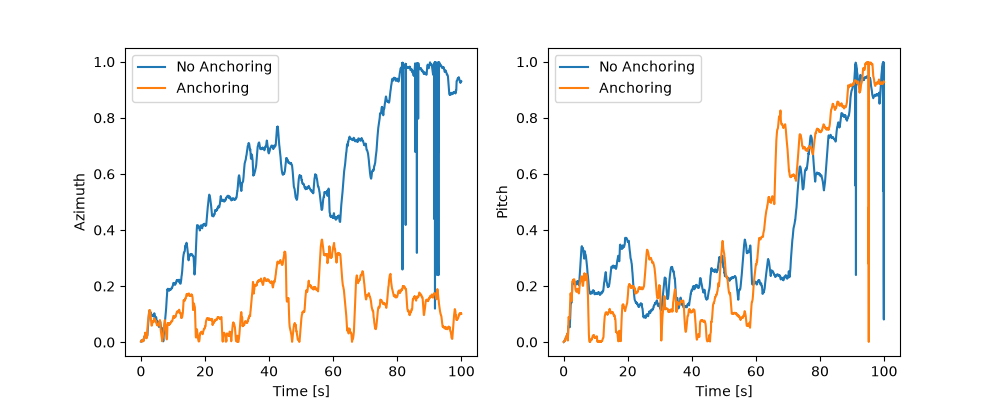
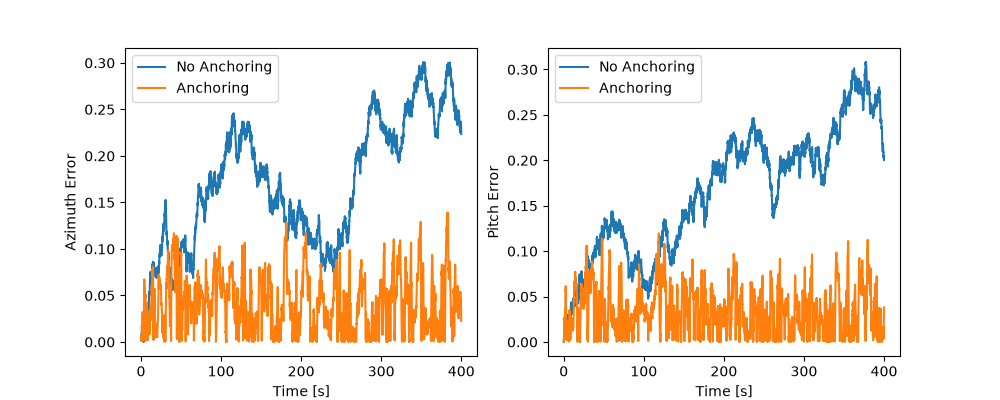
anchoring via separate input works

diff --git a/grid_cells/bat_hd_system.py b/grid_cells/bat_hd_system.py
@@ -275,7 +275,7 @@ class BatHeadDirectionSystem:
         dt=0.5e-3,
         intrinsic_noise=0,
         input_noise=0.1,
-        size=1,
+        size=0.5,
         rng: np.random.Generator = None,
         **kwargs,
     ):
@@ -310,9 +310,9 @@ class BatHeadDirectionSystem:
         self.rng = rng
         self.activation_sigma = 0.1
         self.connectivity_sigma = 0.1
-        self.forward_strength = 0.1
+        self.forward_strength = 0.5
         self.backward_strength = 0.1
-        self.feedback_strength = 1
+        self.feedback_strength = 0.1
         self.inhibition = 1
         self.conjunctive_neurons = np.zeros(n_conjunctive, dtype=float)
         self.azimuth_weight_vectors = np.zeros((n_conjunctive, n_azimuth), dtype=float)
@@ -398,7 +398,7 @@ class BatHeadDirectionSystem:
                 + np.dot(self.azimuth_weight_vectors, self.azimuth_ring.s)
             )
             * self.forward_strength
-            + feedback_vector * self.feedback_strength
+            #+ feedback_vector * self.feedback_strength
             - self.inhibition
         )
         rate_derivatives = -self.conjunctive_neurons + np.maximum(total_input, 0.0)
@@ -410,13 +410,13 @@ class BatHeadDirectionSystem:
         )
         self.azimuth_ring.step(
             v_azimuth,
-            anchor_input=self.backward_strength
-            * np.dot(self.azimuth_weight_vectors.T, previous_conj_state),
+            anchor_input=self.feedback_strength
+            * np.dot(self.azimuth_weight_vectors.T, feedback_vector),
         )
         self.pitch_ring.step(
             v_pitch,
-            anchor_input=self.backward_strength
-            * np.dot(self.pitch_weight_vectors.T, previous_conj_state),
+            anchor_input=self.feedback_strength
+            * np.dot(self.pitch_weight_vectors.T, feedback_vector),
         )
 
     def run_simulation(
